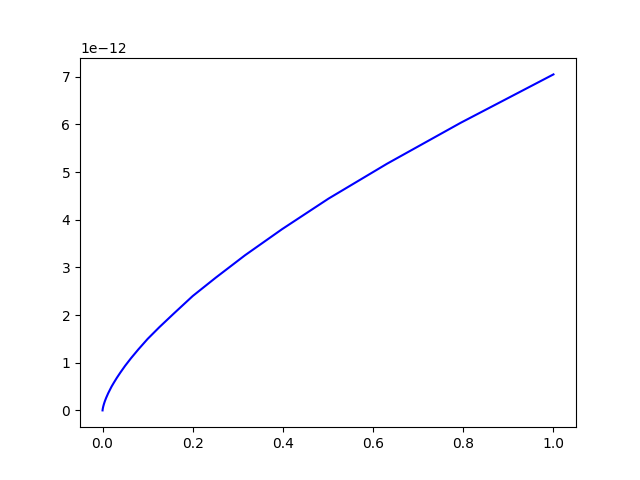
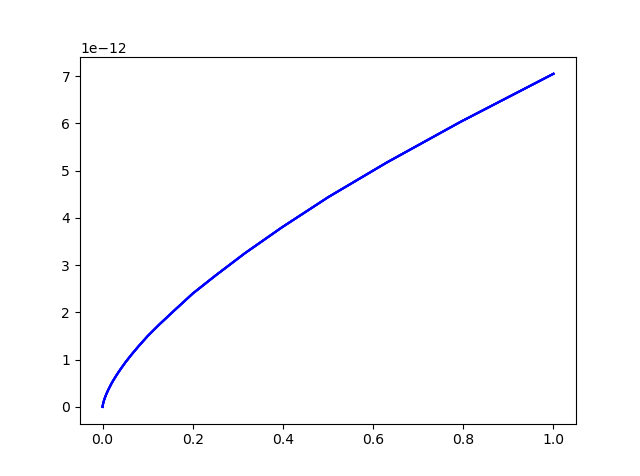
Logarithmische interpolatie voor snelheidsverdeling geimplementeerd

diff --git a/VelocityModel.py b/VelocityModel.py
@@ -1,3 +1,5 @@
+import numpy as np
+
 class VelocityModel:
     def __init__(self, masses):
         self.masses = masses
@@ -18,7 +20,8 @@ class VelocityModel:
         if(mass > 10**(-9)):
             return 7
         if(10**(-16) < mass <= 10**(-9)):
-            return self.__line(10**-16, 20, 10**-9, 7, mass)
+            #return self.__line(10**-16, 20, 10**-9, 7, mass) #Choose interpolation: self.__line -> linear;
+            return self.__log(10**-16, 20, 10**-9, 7, mass) #self.__log -> logaritmic
         if(mass <= 10**(-16)):
             return 20
         return None
@@ -27,3 +30,8 @@ class VelocityModel:
     def __line(self, x1, y1, x2, y2, X):
         a = (y2 - y1) / (x2 - x1)
         return a * (X - x1) + y1
+    # Returns Y value of the function Y = f(X) = b*log(a*X) interpolating between two points (x1,y1) and (x2,y2)
+    def __log(self, x1, y1, x2, y2, X):
+        b = (y1-y2)/np.log(x1/x2)
+        a = np.exp(y1/b)/x1
+        return (b*np.log(a*X))

diff --git a/Main.py b/Main.py
@@ -1,6 +1,7 @@
 from DataExtraction import DataExtraction
 from VelocityModel import VelocityModel
 import matplotlib.pyplot as plt
+import numpy as np
 
 data = DataExtraction(str("spenvisdata.csv"))
 velocityData = VelocityModel(data.getMasses())
